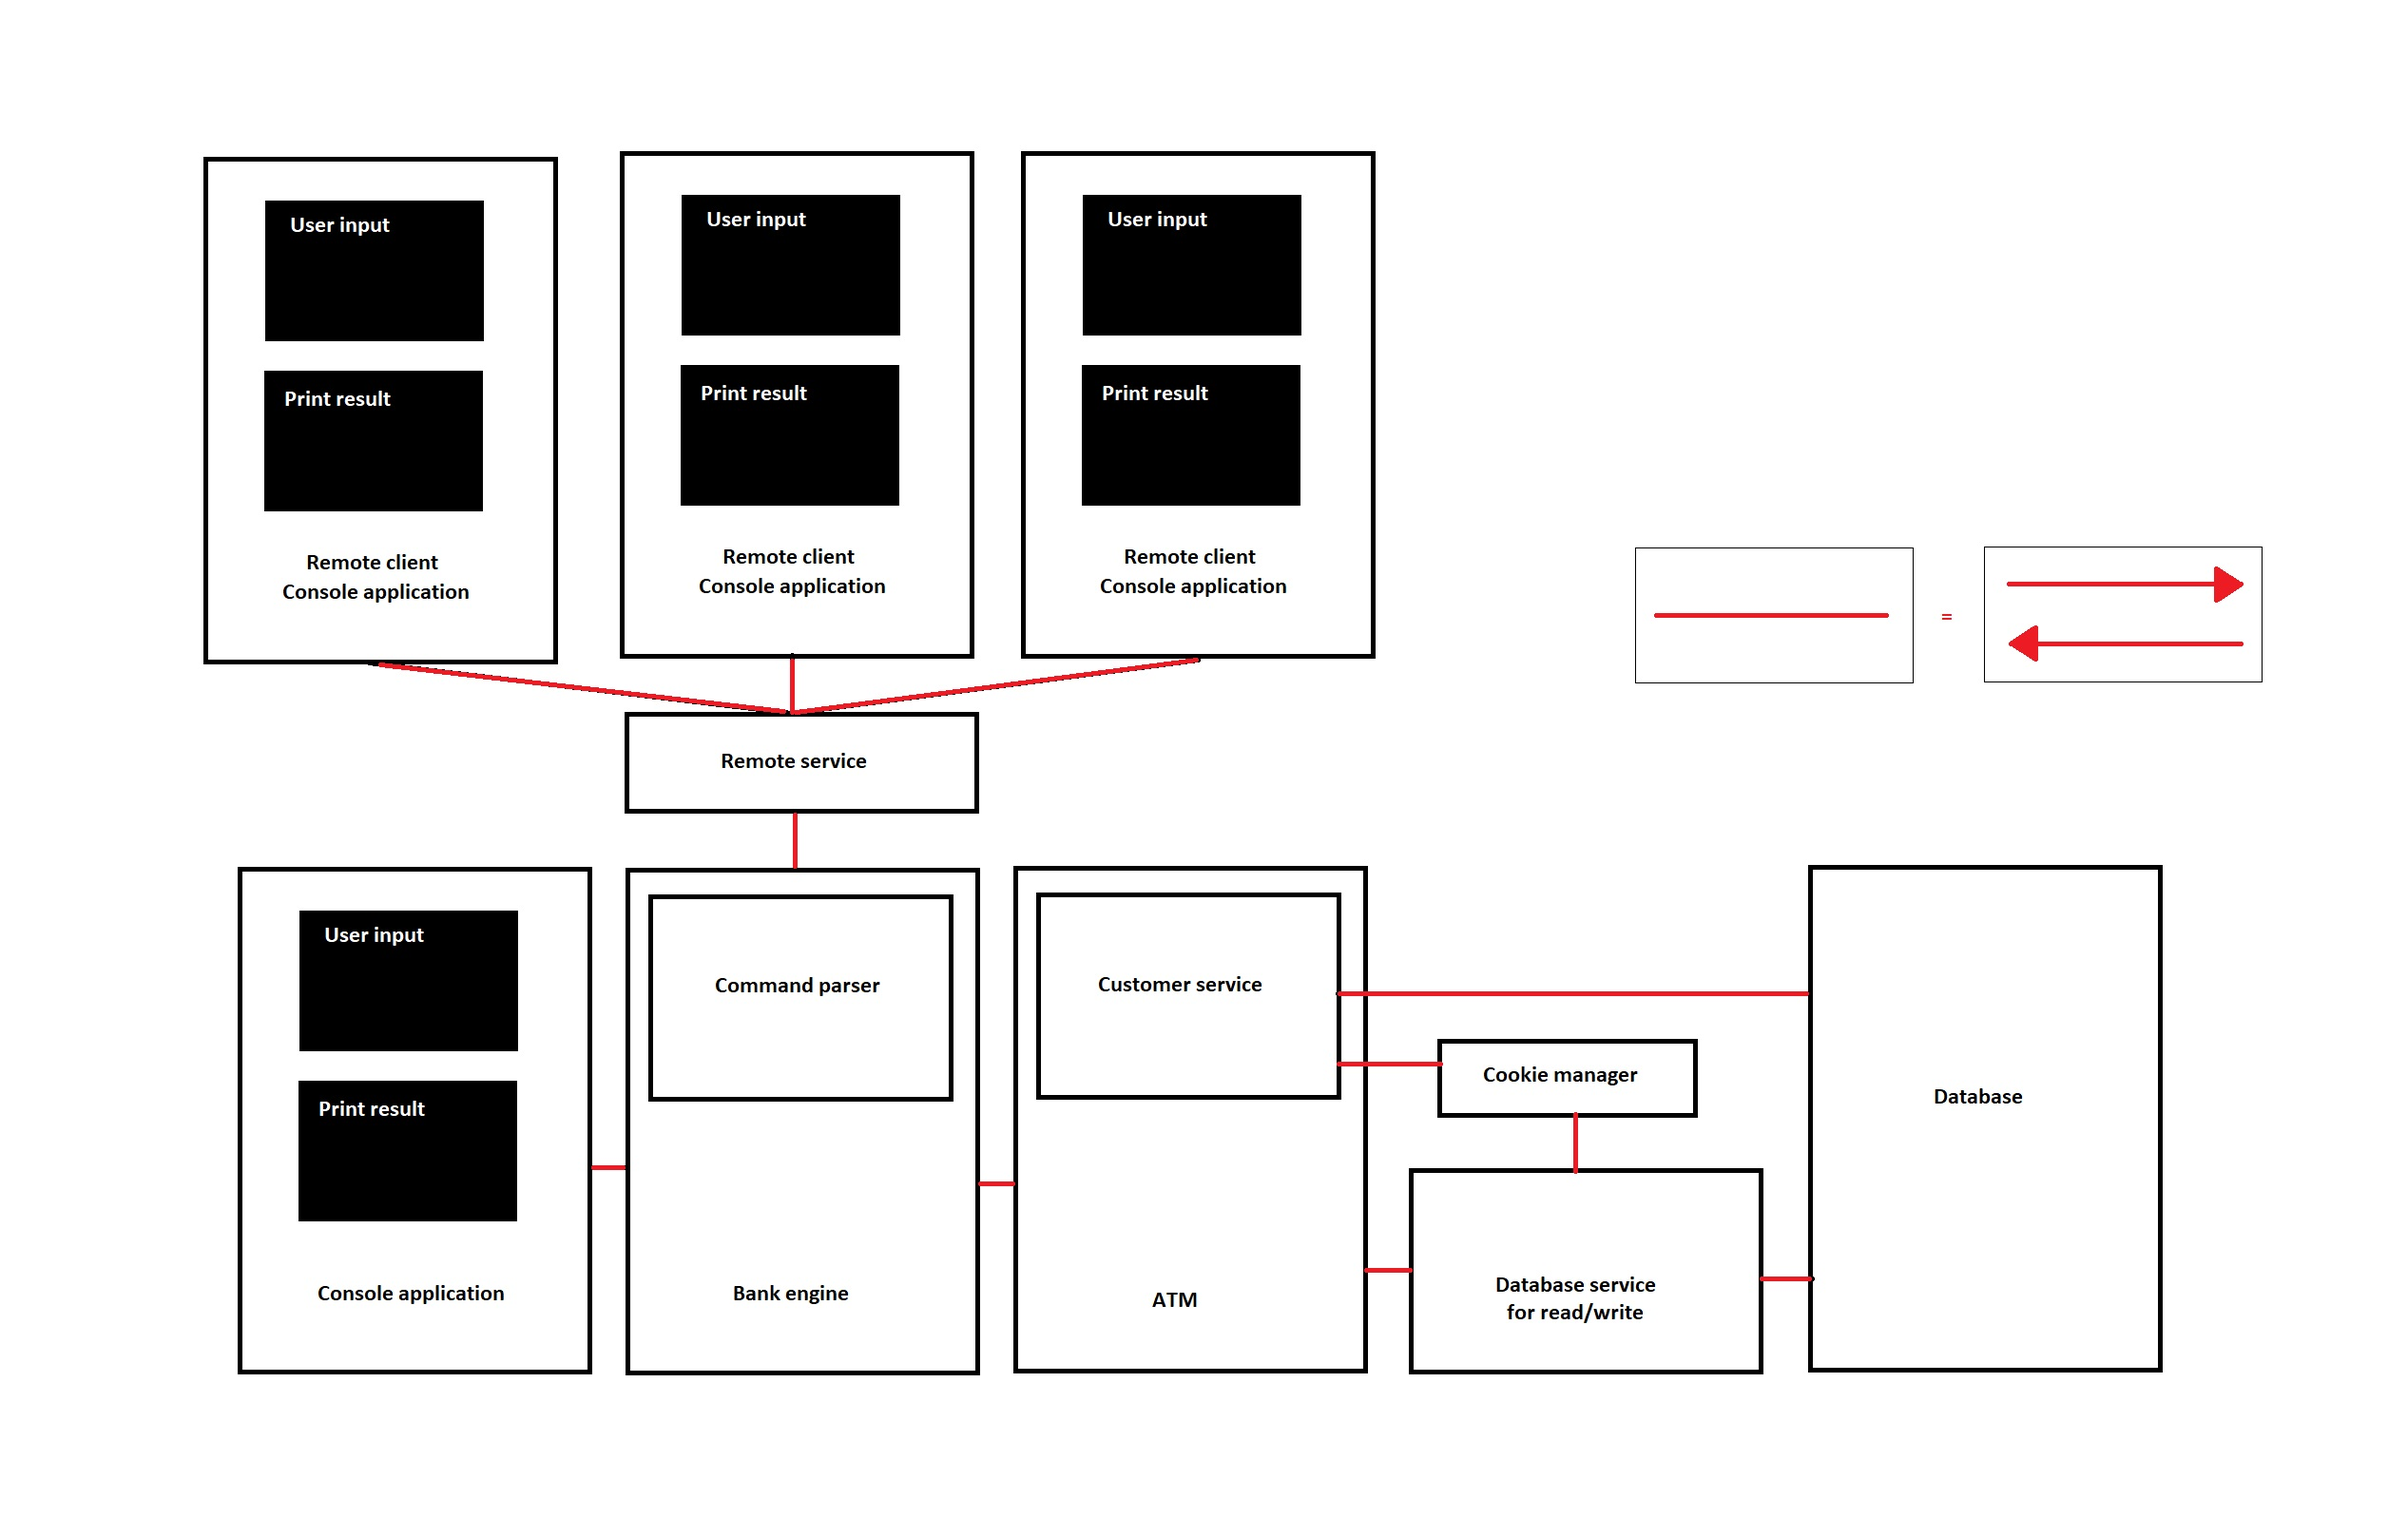
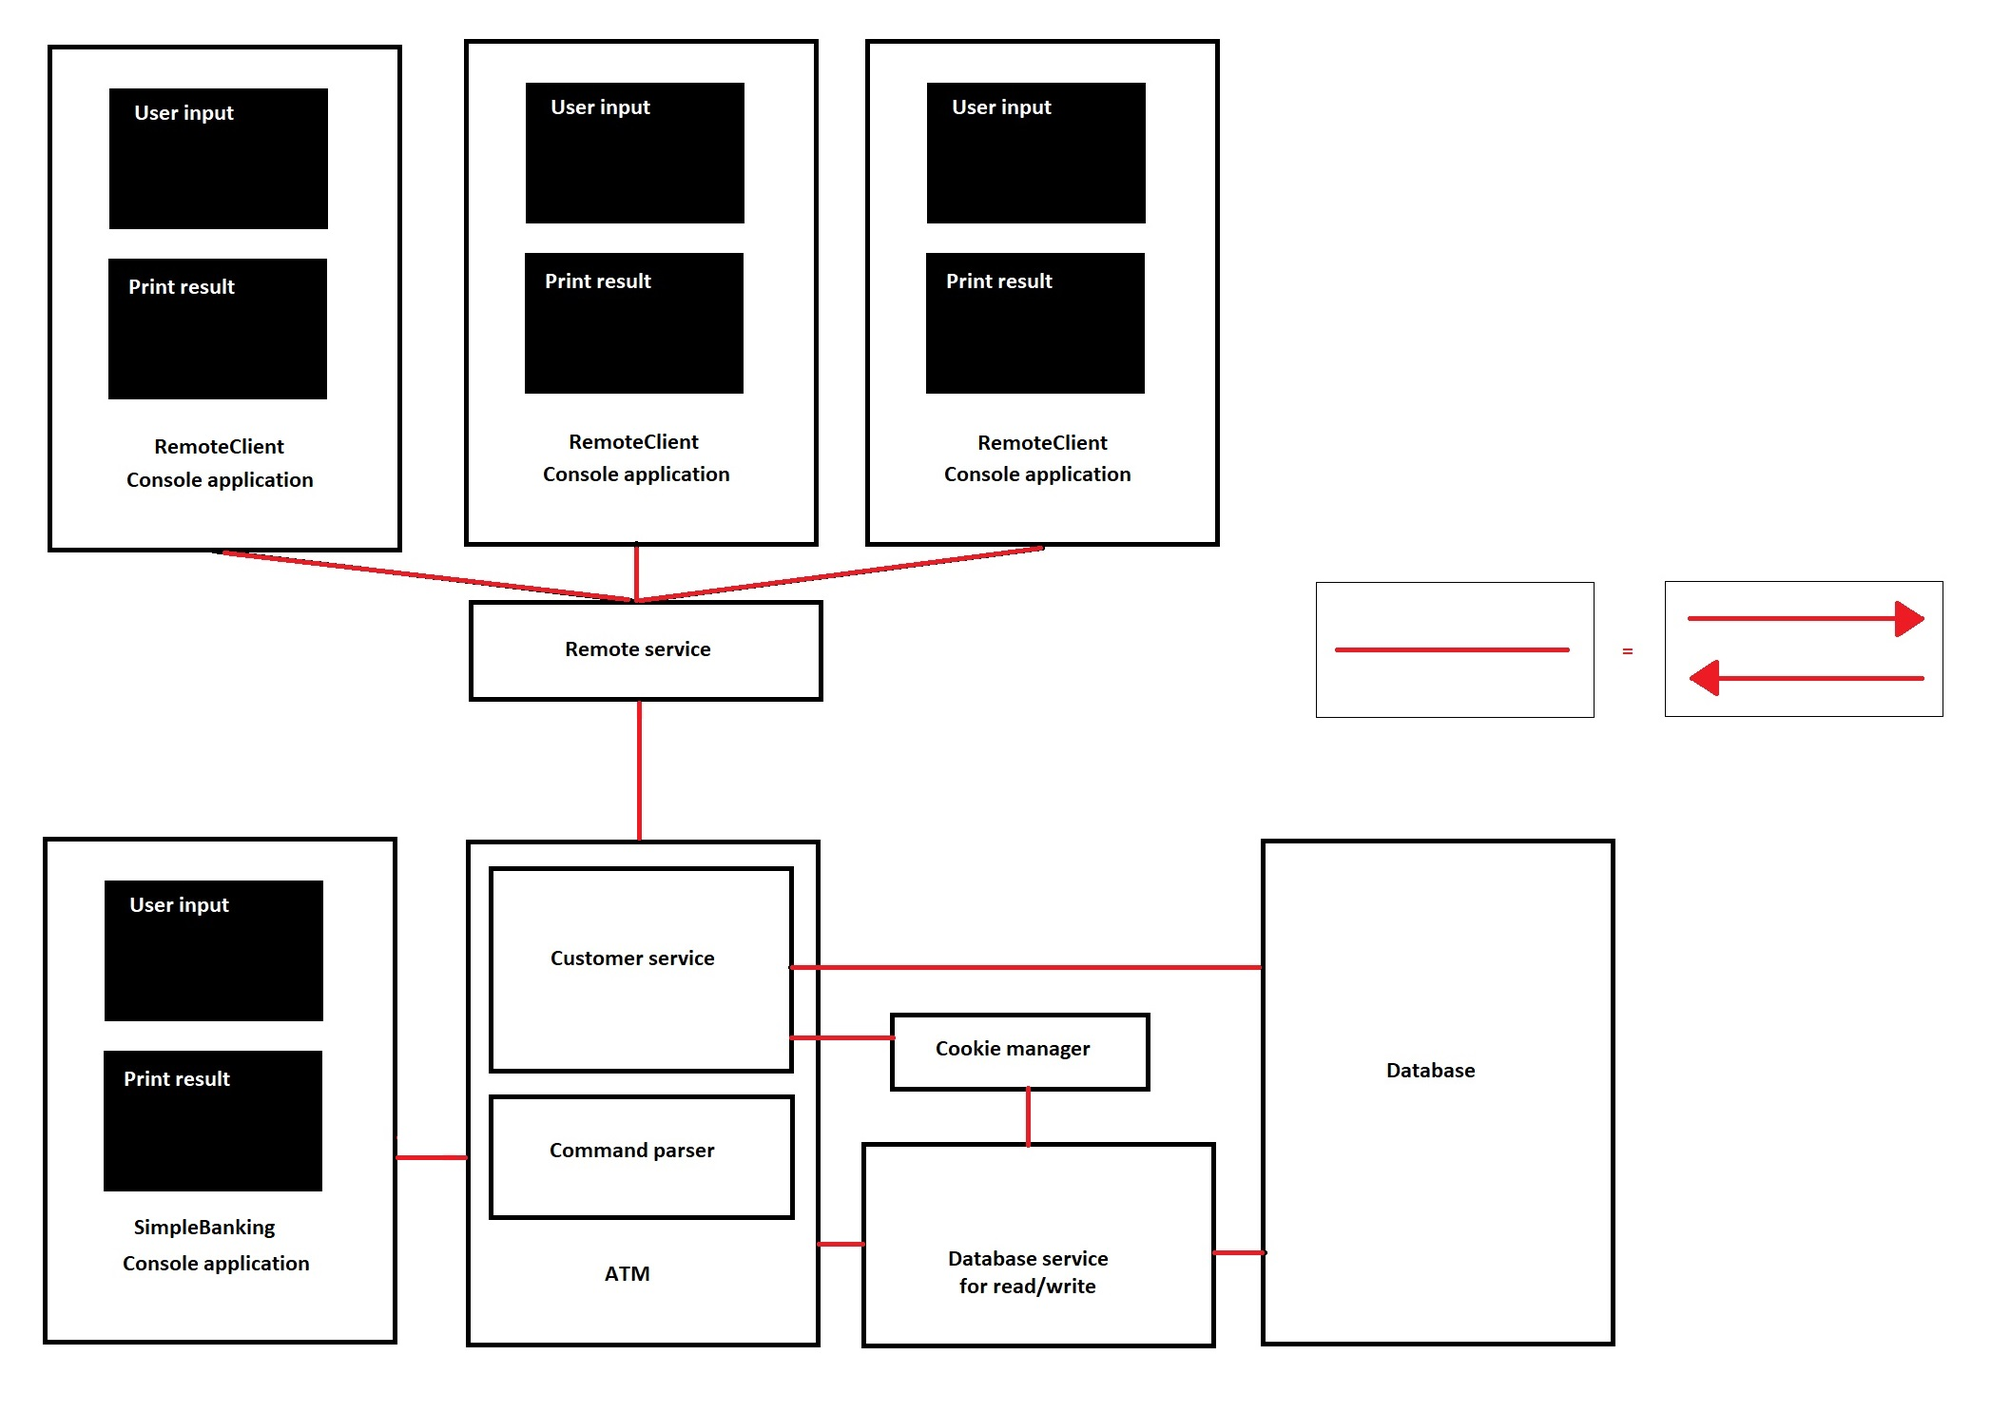
removed redundent Bank engine, mergeing it into ATM

diff --git a/SimpleБanking/ATM.cs b/SimpleБanking/ATM.cs
@@ -1,57 +1,74 @@
 using System.Collections.Generic;
+using System;
 
 namespace SimpleBanking
 {
     public interface IATM
     {
-        void ExecuteCommand(IBankCommand command);
-        string Result { get; }
+        string ExecuteCommand(string input);
     }
 
     public class ATM : IATM
     {
+        #region Messages
+        const string help =
+            "Available commands:\n" +
+            "[login] [user] [pin]\n" +
+            "[logout]\n" +
+            "[get balance]\n" +
+            "[withdraw] [amount]\n" +
+            "[deposit] [amount]\n" +
+            "[transfer] [amount] to [user]\n" +
+            "[history]\n" +
+            "[q] (to quit)";
+
+        const string invalidCommand =
+            "Invalid input.\n" +
+            "Type [h] for list of available commands or [q] to quit.";
+        #endregion
+        readonly ICommandParser commandParser;
         readonly IDbService dbService;
         readonly ICustomerService customerService;
         string name;
         string cookie;
 
-        public ATM(IDbService dbService_, ICustomerService customerService_)
+        public ATM(IDbService dbService_, ICustomerService customerService_, ICommandParser commandParser_)
         {
             dbService = dbService_;
             customerService = customerService_;
+            commandParser = commandParser_;
         }
 
-        public string Result { get; private set; }
+        public string ExecuteCommand(string input)
+        {
+            var command = commandParser.ParseCommand(input.ToLower());
 
-        public void ExecuteCommand(IBankCommand command)
+            if (command.CommandId == Command.Quit)
+                return null;
+            else if (command.CommandId == Command.Help)
+                return help;
+            else if (command.CommandId == Command.InvalidCommand)
+                return invalidCommand;
+
+            return ExecuteParsedCommand(command);
+        }
+
+        string ExecuteParsedCommand(IBankCommand command)
         {
             switch (command.CommandId)
             {
-                case Command.Login:
-                    Result = LogIn(command.InputParameters);
-                    break;
-                case Command.Logout:
-                    Result = Logout();
-                    break;
-                case Command.GetBalance:
-                    Result = GetBalance();
-                    break;
-                case Command.Withdraw:
-                    Result = Withdraw(command.InputParameters);
-                    break;
-                case Command.Deposit:
-                    Result = Deposit(command.InputParameters);
-                    break;
-                case Command.Transfer:
-                    Result = Transfer(command.InputParameters);
-                    break;
-                case Command.History:
-                    Result = GetHistory();
-                    break;
+                case Command.Login: return LogIn(command.InputParameters);
+                case Command.Logout: return Logout();
+                case Command.GetBalance: return GetBalance();
+                case Command.Withdraw: return Withdraw(command.InputParameters);
+                case Command.Deposit: return Deposit(command.InputParameters);
+                case Command.Transfer: return Transfer(command.InputParameters);
+                case Command.History: return GetHistory();
+                default: throw new ArgumentOutOfRangeException("Given command is not implemented.");
             }
         }
 
-        private string LogIn(Dictionary<ArgumentType, string> inputParameters)
+        string LogIn(Dictionary<ArgumentType, string> inputParameters)
         {
             if (customerService.IsLoggedIn(cookie) && !customerService.IsExpired(cookie))
                 return "Already logged in. Log out first";
@@ -67,7 +84,7 @@ namespace SimpleBanking
             return $"[{name}] logged in.";
         }
 
-        private string Logout()
+        string Logout()
         {
             var isLoggedIn = customerService.IsLoggedIn(cookie);
 
@@ -79,7 +96,7 @@ namespace SimpleBanking
             return "User logged out.";
         }
 
-        private string GetBalance()
+        string GetBalance()
         {
             if (!customerService.IsLoggedIn(cookie))
                 return "Not logged in.";
@@ -92,7 +109,7 @@ namespace SimpleBanking
             return string.Format("{0:0.00}", dbService.GetBalance(cookie) ?? 0d);
         }
 
-        private string Withdraw(Dictionary<ArgumentType, string> inputParameters)
+        string Withdraw(Dictionary<ArgumentType, string> inputParameters)
         {
             if (!customerService.IsLoggedIn(cookie))
                 return "Not logged in.";
@@ -117,7 +134,7 @@ namespace SimpleBanking
             return dbService.Withdraw(cookie, amount) ? string.Format("Withdrawn {0:0.00}", amount) : "[System error.] Witdraw failed.";
         }
 
-        private string Deposit(Dictionary<ArgumentType, string> inputParameters)
+        string Deposit(Dictionary<ArgumentType, string> inputParameters)
         {
             if (!customerService.IsLoggedIn(cookie))
                 return "Not logged in.";
@@ -134,7 +151,7 @@ namespace SimpleBanking
             return dbService.Deposit(cookie, amount) ? "Deposit successful." : "[System error.] Deposit failed.";
         }
 
-        private string Transfer(Dictionary<ArgumentType, string> inputParameters)
+        string Transfer(Dictionary<ArgumentType, string> inputParameters)
         {
             if (!customerService.IsLoggedIn(cookie))
                 return "Not logged in.";
@@ -167,7 +184,7 @@ namespace SimpleBanking
             return dbService.Transfter(cookie, amount, recipient) ? "Transfter successful." : "[System error.] Transfter failed.";
         }
 
-        private string GetHistory()
+        string GetHistory()
         {
             if (!customerService.IsLoggedIn(cookie))
                 return "Not logged in.";

diff --git a/SimpleБanking/Program.cs b/SimpleБanking/Program.cs
@@ -33,34 +33,32 @@ namespace SimpleBanking
 
             var kernel = new StandardKernel(new BankingModules());
             kernel.Get<IDbService>().CreateDbAndSeed();
-            var bankEngine = kernel.Get<IBankEngine>();
+            var ATM = kernel.Get<IATM>();
 
             if (isAuto)
             {
                 var commands = GetAutoCommands();
 
                 while (commands.Count != 0)
-                    if (PrintAndExit(commands.Dequeue(), bankEngine))
+                    if (PrintAndExit(commands.Dequeue(), ATM))
                         break;
             }
             else
                 while (true)
-                    if (PrintAndExit(Console.ReadLine(), bankEngine))
+                    if (PrintAndExit(Console.ReadLine(), ATM))
                         return;
 
             Console.WriteLine("Bank stopped. Pres ENTER to exit.");
             Console.ReadLine();
         }
 
-        static bool PrintAndExit(string input, IBankEngine serverEngine)
+        static bool PrintAndExit(string input, IATM ATM)
         {
-            var output = serverEngine.ExecuteCommand_(input);
-            if (output == null)
-                return true;
-            else
+            var output = ATM.ExecuteCommand(input);
+            if (output != null)
                 Console.WriteLine(output);
 
-            return false;
+            return output == null;
         }
 
         static Queue<string> GetAutoCommands()

diff --git a/SimpleБanking/BankingModules.cs b/SimpleБanking/BankingModules.cs
@@ -6,16 +6,12 @@ namespace SimpleBanking
     {
         public override void Load()
         {
-            this.Bind<ICookieManager>().To<CookieManager>().InSingletonScope();
-            this.Bind<IBankDb>().To<BankDb>();
-            this.Bind<ICustomerService>().To<CustomerService>().InSingletonScope();
-            this.Bind<IDbService>().To<DbService>().InSingletonScope();
-
-            this.Bind<IATM>().To<ATM>().InSingletonScope();
-
-            this.Bind<ICommandParser>().To<CommandParser>().InSingletonScope();
-
-            this.Bind<IBankEngine>().To<BankEngine>().InSingletonScope();
+            Bind<ICookieManager>().To<CookieManager>().InSingletonScope();
+            Bind<IBankDb>().To<BankDb>();
+            Bind<ICustomerService>().To<CustomerService>().InSingletonScope();
+            Bind<IDbService>().To<DbService>().InSingletonScope();
+            Bind<ICommandParser>().To<CommandParser>().InSingletonScope();
+            Bind<IATM>().To<ATM>().InSingletonScope();
         }
     }
 }

diff --git a/RemoteService/Service.cs b/RemoteService/Service.cs
@@ -16,7 +16,7 @@ namespace RemoteService
 
     public class Service : IService
     {
-        readonly IBankEngine bankEngine;
+        readonly IATM ATM;
         readonly IKernel kernel;
 
         public Service()
@@ -24,10 +24,10 @@ namespace RemoteService
             kernel = new StandardKernel(new BankingModules());
             kernel.Get<IDbService>().CreateDbAndSeed();
 
-            bankEngine = kernel.Get<IBankEngine>();
+            ATM = kernel.Get<IATM>();
         }
 
-        public string ExecuteCommand(string command) => bankEngine.ExecuteCommand_(command);
+        public string ExecuteCommand(string command) => ATM.ExecuteCommand(command);
 
         public void EndSession() { }
     }
